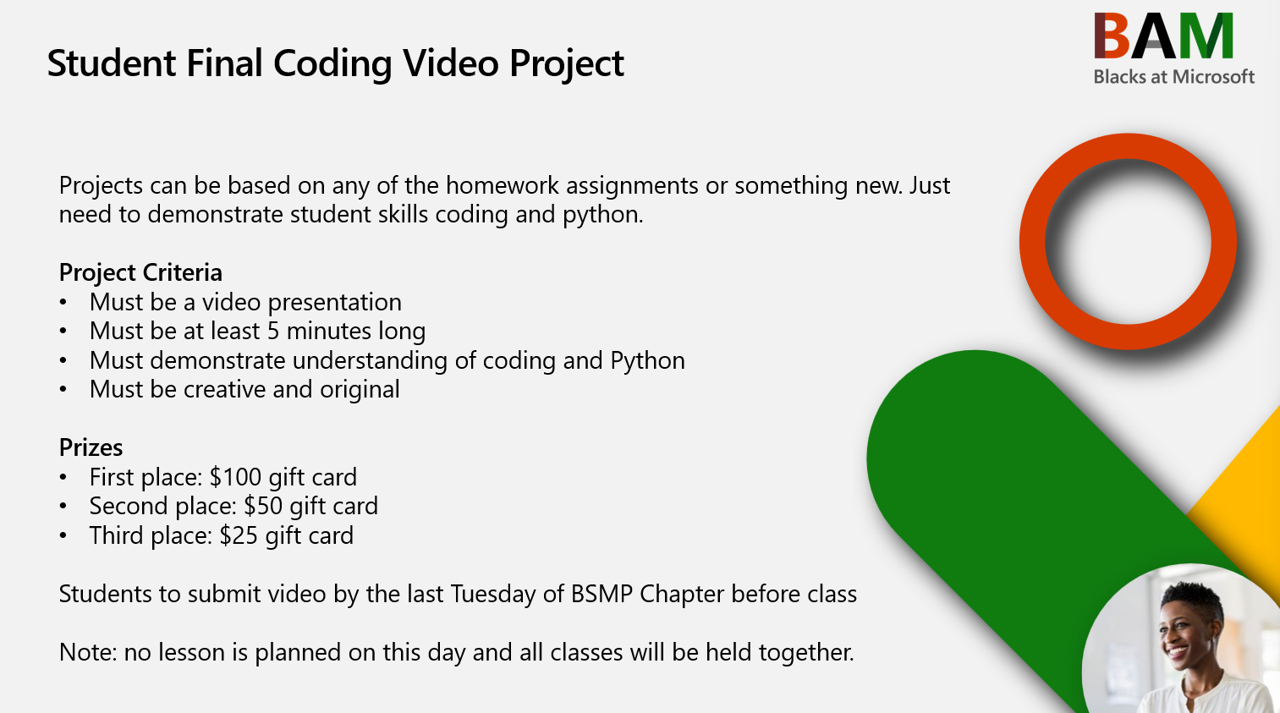
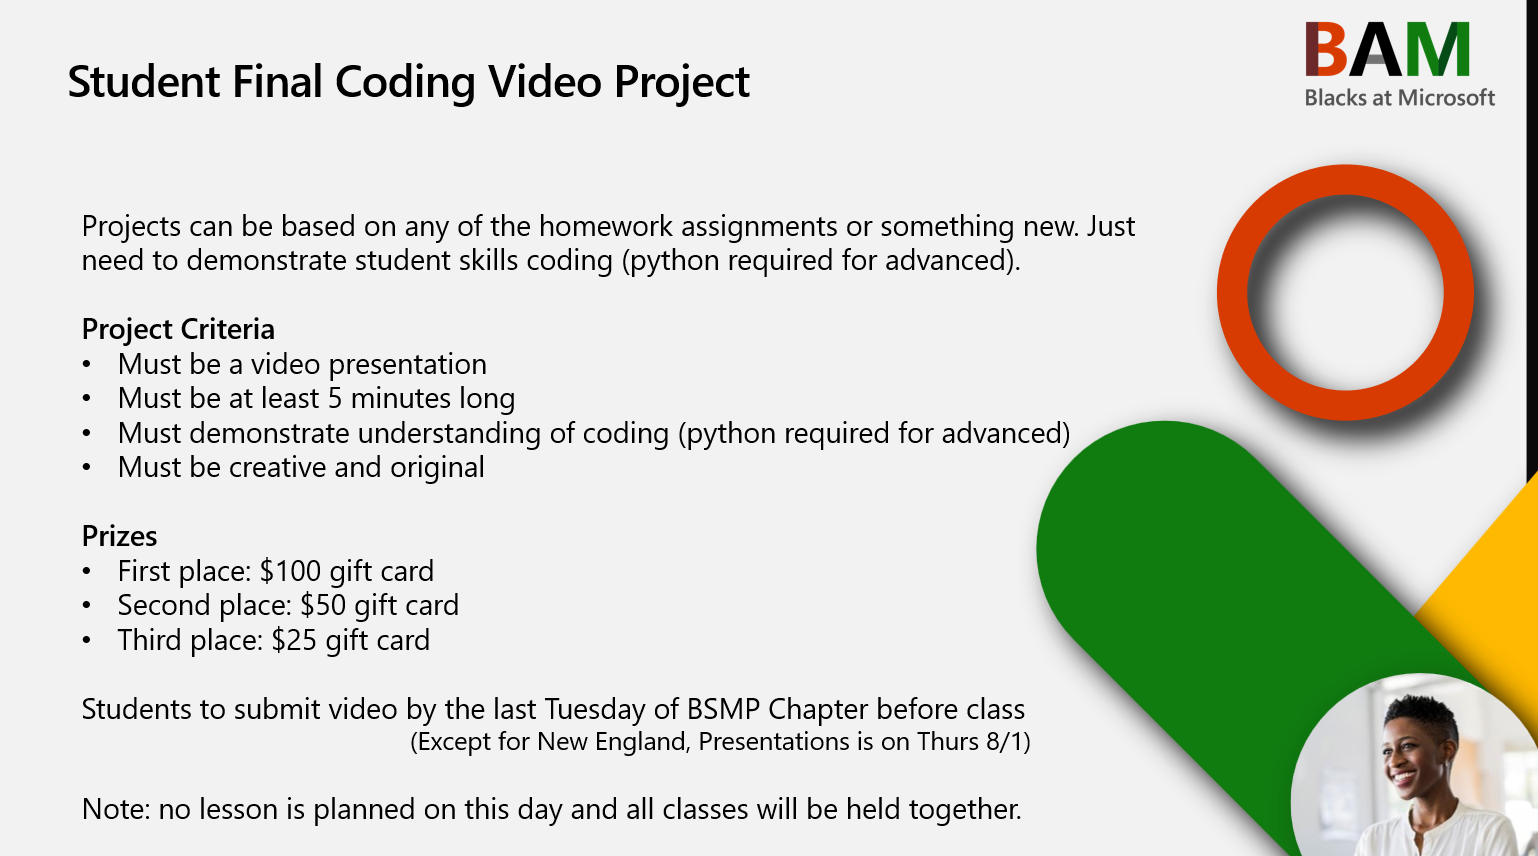
final project

diff --git a/lessons/student_video_project/final_projects.md b/lessons/student_video_project/final_projects.md
@@ -1,2 +1,11 @@
 <!-- /final_student_video_project/README.md -->  
 ![](../../_media/lessons/student_video_project.png)
+
+
+Students to submit video by the last Tuesday of BSMP Chapter before class
+
+(Except for New England, Presentations is on Thurs 8/1) 
+
+Student Coding Project Submission form: https://forms.office.com/r/eqjhnYgSS6
+
+![](../../_media/lessons/submission_form_excerpt.png)
